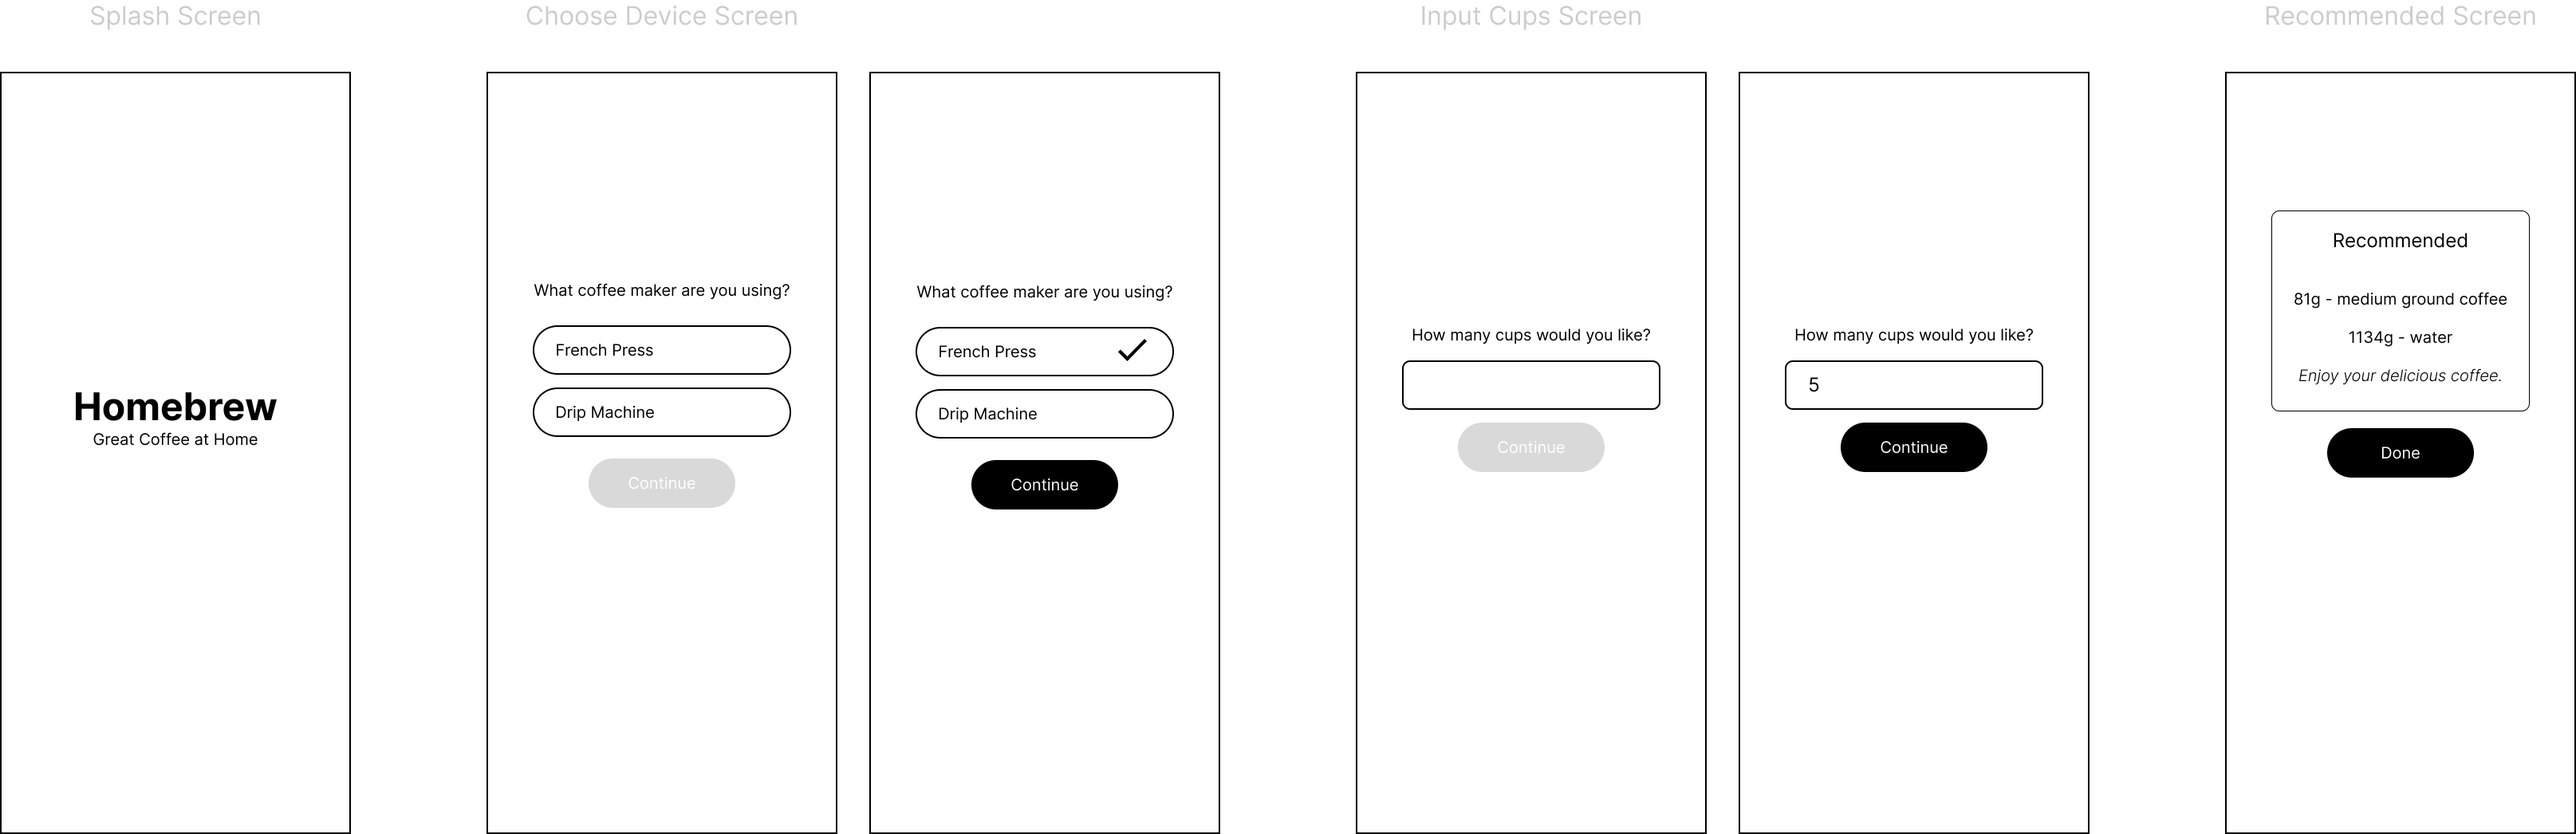
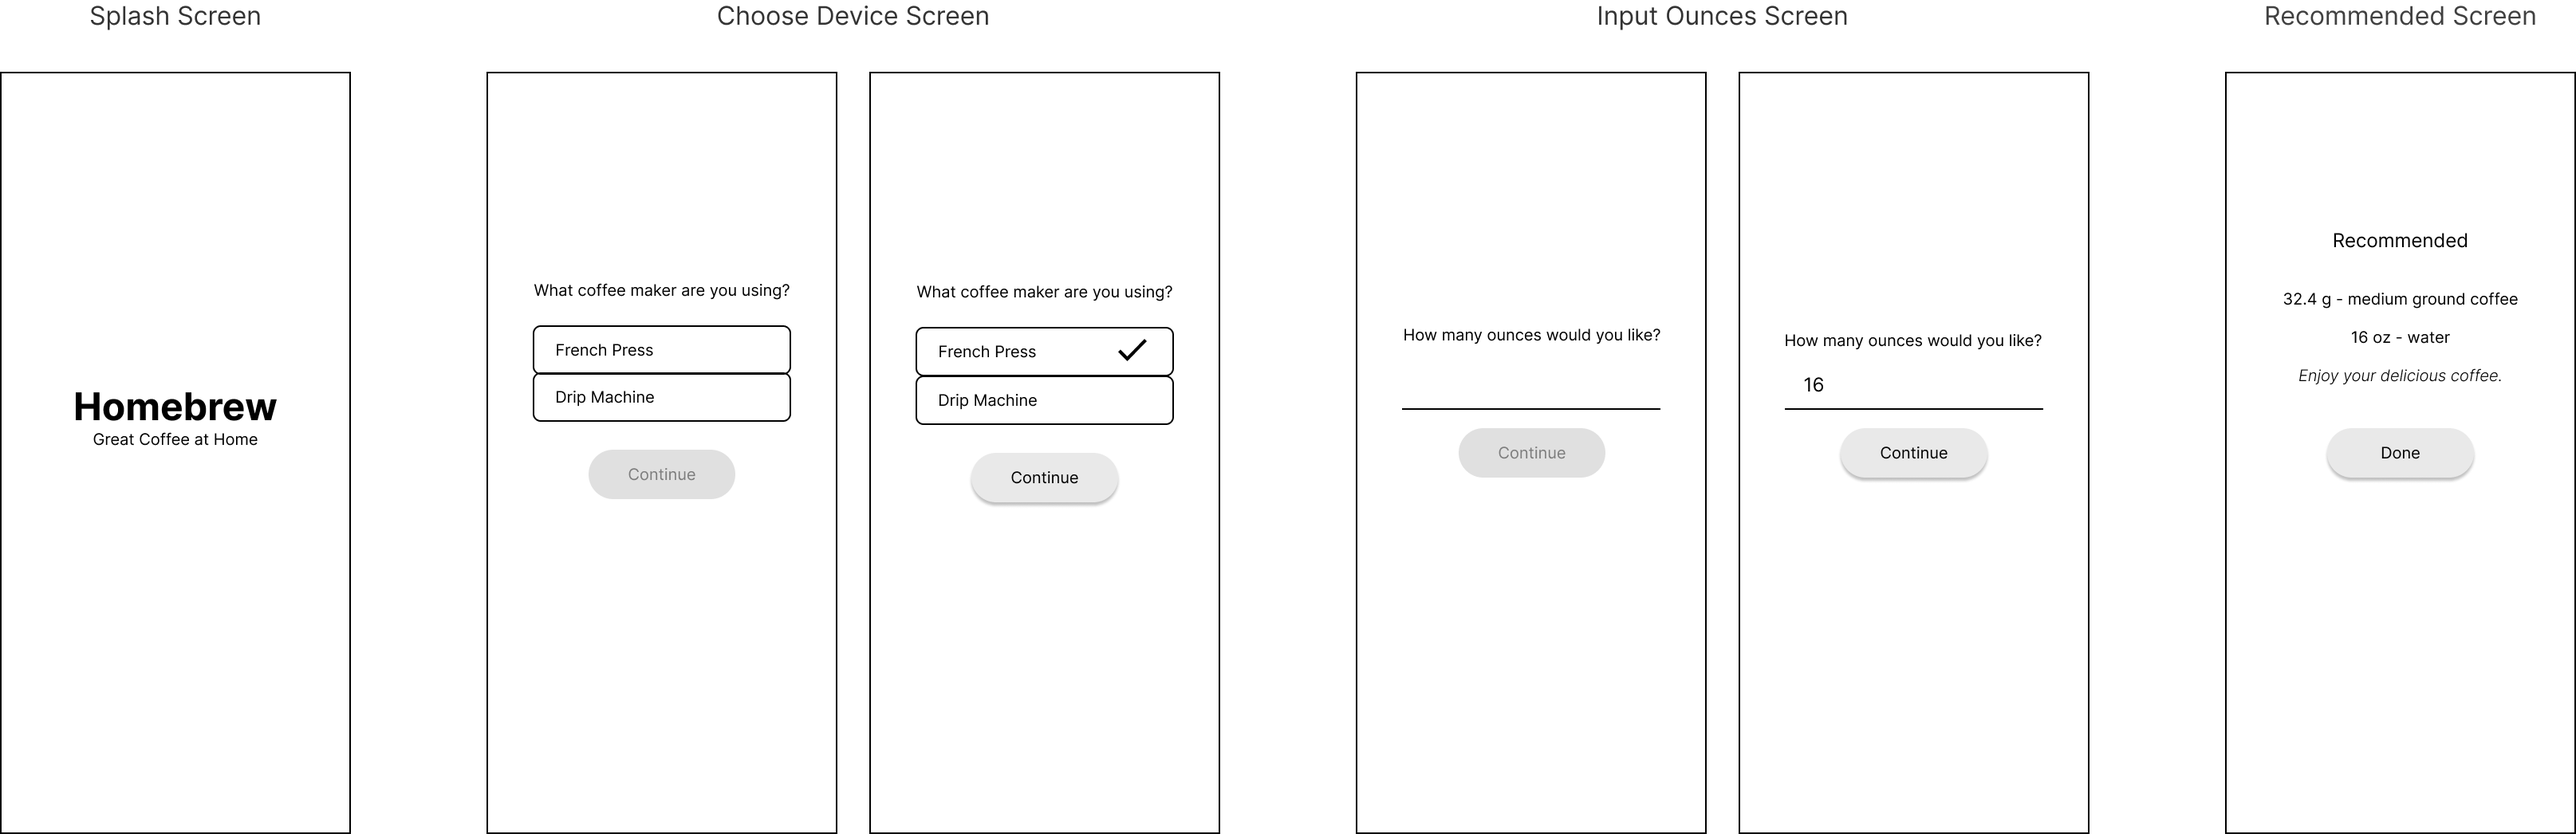
updated assignment

diff --git a/test/integration_tests.dart b/test/integration_tests.dart
@@ -8,126 +8,95 @@ void main() {
 
   group('Happy Paths', () {
     /*
-      Given I am on the Coffee Device Selection Screen
-      When I tap "French Press"
-      And I tap "Continue"
-      And I enter "5"
-      And I tap "Continue"
-      Then I should see "63g - course ground coffee"
-      And I should see "887g - water"
+      GIVEN I am on the Coffee Device Selection Screen, 
+      
+      WHEN I tap "French Press" AND I tap "Continue" 
+      AND I input "16" AND I tap "Continue", 
+      
+      THEN I should see "32.4 g - medium ground coffee" 
+      AND I should see "16 oz – water".
     */
-    testWidgets("should give recommendation for French Press",
+    testWidgets("Recommendation for French Press and 16 Oz of water.",
         (WidgetTester tester) async {
-      // your code here
+      
+      // Start the application
       await tester.pumpWidget(MyApp());
+      await tester.pumpAndSettle();
+
+      // Wait for Splash Screen to navigate to device screen (3 second timer)
+      await tester.pump(const Duration(seconds: 4));
+      await tester.pumpAndSettle();
+
+      // Now we should be on choose device screen
+      expect(find.text('What coffee maker are you using?'), findsOneWidget);
+
+      // Tap French Press
+      await tester.tap( find.byKey(Key('french-press')) );
+      await tester.pumpAndSettle();
+
+      // Tap Continue
+      await tester.tap( find.byKey(Key('continue')) );
+      await tester.pumpAndSettle();
+
+      // Now we should be on input oz screen
+      expect(find.text('How many ounces would you like?'), findsOneWidget);
+
+      // Input 16 Oz
+      await tester.enterText(find.byType(TextField), '16');
+      await tester.pumpAndSettle();
+
+      // Tap Continue
+      await tester.tap( find.byKey(Key('continue')) );
+      await tester.pumpAndSettle();
+
+      // Now we should be on recommend screen
+      expect(find.textContaining('Recommended'), findsOneWidget);
+
+      // Check for correct recommendations
+      expect(find.textContaining('32.4 - medium ground coffee'), findsOneWidget);
+      expect(find.textContaining('16 oz - water'), findsOneWidget);
+      
+    }, skip: true);
+
+    /*
+      GIVEN I am on the Coffee Device Selection Screen, 
+      
+      WHEN I tap "Drip Machine" AND I tap "Continue" 
+      AND I input "16" AND I tap "Continue", 
+      
+      THEN I should see "26.7 g - medium ground coffee" 
+      AND I should see "16 oz – water".
+    */
+    testWidgets("Recommendation for Drip Machine and 16 Oz of water.",
+        (WidgetTester tester) async {
+      // ADD YOUR CODE HERE
+
     });
 
     /*
-      Given I am on the Coffee Device Selection Screen
-      When I tap "Drip Machine"
-      And I tap "Continue"
-      And I enter "5"
-      And I tap "Continue"
-      Then I should see "52g - medium ground coffee"
-      And I should see "887g - water"
+      GIVEN I have already selected a coffee device and input a # of oz
+      AND I am on the Recommendation Screen, 
+      
+      WHEN I tap "Done", 
+      
+      THEN I should be taken back to the Coffee Device Selection Screen.
     */
-    testWidgets("should give recommendation for Drip Machine",
+      testWidgets("Going back to Choose Device Screen after clicking Done.",
         (WidgetTester tester) async {
-      //your code here
+      // ADD YOUR CODE HERE
+
     });
+
   });
 
   group('Sad Paths', () {
-    /*
-      Given I am on the Coffee Device Selection Screen
-      When I press "Continue"
-      Then I expect to still be on the Coffee Device Selection Screen
-    */
-    testWidgets(
-        "should not advance from Choose Device Screen without a selection",
-        (WidgetTester tester) async {
-      //your code here
-    });
 
-    /*
-      Given I chose "French Press" on the Coffee Device Selection Screen
-      And I advanced to the Choose Cups Screen
-      When I press "Continue"
-      Then I expect to still be on the Choose Cups Screen
-    */
-    testWidgets("should not advance from Choose Cups Screen without cups",
-        (WidgetTester tester) async {
-      //your code here
-    });
+    // ADD YOUR SAD PATH TESTS HERE.
 
-    /*
-      Given I chose "French Press" on the Coffee Device Selection Screen
-      And I advanced to the Choose Cups Screen
-      When I enter "-1"
-      And I press "Continue"
-      Then I expect to still be on the Choose Cups Screen
-    */
-    testWidgets(
-        "should not advance from Choose Cups Screen with negative cup amount",
-        (WidgetTester tester) async {
-      //your code here
-    });
 
-    /*
-      Given I chose "French Press" on the Coffee Device Selection Screen
-      And I advanced to the Choose Cups Screen
-      When I enter "a"
-      And I press "Continue"
-      Then I expect to still be on the Choose Cups Screen
-    */
-    testWidgets(
-        "should not advance from Choose Cups Screen with letter for cup amount",
-        (WidgetTester tester) async {
-      //your code here
-      //if you can restrict the keyboard to numbers only you can delete this test
-    });
 
-    /*
-      Given I chose "Drip Machine" on the Coffee Device Selection Screen
-      And I advanced to the Choose Cups Screen
-      When I press "Continue"
-      Then I expect to still be on the Choose Cups Screen
-    */
-    testWidgets("should not advance from Choose Cups Screen without cups",
-        (WidgetTester tester) async {
-      //your code here
-    });
 
-    /*
-      Given I chose "Drip Machine" on the Coffee Device Selection Screen
-      And I advanced to the Choose Cups Screen
-      When I enter "-1"
-      And I press "Continue"
-      Then I expect to still be on the Choose Cups Screen
-    */
-    testWidgets(
-        "should not advance from Choose Cups Screen with negative cup amount",
-        (WidgetTester tester) async {
-      //your code here
-    });
 
-    /*
-      Given I chose "Drip Machine" on the Coffee Device Selection Screen
-      And I advanced to the Choose Cups Screen
-      When I enter "a"
-      And I press "Continue"
-      Then I expect to still be on the Choose Cups Screen
-    */
-    testWidgets(
-        "should not advance from Choose Cups Screen with letter for cup amount",
-        (WidgetTester tester) async {
-      //your code here
-      //if you can restrict the keyboard to numbers only you can delete this test
-    });
   });
 
-  group('Back Button', () {
-    //make up your own tests to check that the back button works
-    //on every page
-  });
 }

diff --git a/test/unit_tests.dart b/test/unit_tests.dart
@@ -2,34 +2,42 @@ import 'package:flutter_test/flutter_test.dart';
 import 'package:homebrew/utils/coffee_tools.dart';
 
 void main() {
-  // This group will run several tests on our cups to ounces conversion.
-  group("cupsToOunces", () {
-    test('calculates ounces on 1 cup', () {
-      // Expect 8 oz from 1 cup.
+  // This group will run several tests for your ounces to grams conversion.
+  group("Ounces to Grams", () {
+
+    test('calculates grams for 1 ounce', () {
+      // Expect 28.35 g from 1 oz.
+
     });
 
-    test('calculates ounces on positive number of cups', () {
-      // Expect 40 oz from 5 cups.
+    test('calculates grams on positive number of ounces', () {
+      // Expect 453.6 g from 16 oz.
+
     });
 
     test('throws ArgumentError on zero', () {
       // Expect throwsArgumentError from passing 0.
+
     });
 
     test('throws ArgumentError on negative number', () {
       // Expect throwsArgumentError from passing -1.
+
     });
   });
 
-  // This group will run several tests on our cups to ounces conversion.
-  // Test for positive, negative, and 0 inputs.
-  group("ouncesToGrams", () {});
-
   // This group will run several tests on our French Press 1/14 ratio.
   // Test for positive inputs. (No need for negative or 0)
-  group("frenchPress", () {});
+  group("French Press Ratio", () {
+
+
+  });
 
   // This group will run several tests on our Drip Machine 1/17 ratio.
   // Test for positive inputs. (No need for negative or 0)
-  group("dripMachine", () {});
+  group("Drip Machine Ratio", () {
+
+
+  });
+
 }

diff --git a/lib/utils/coffee_tools.dart b/lib/utils/coffee_tools.dart
@@ -1,10 +1,19 @@
 class CoffeeTools {
-  // Input: number of cups (positive integer)
-  // Output: number of ounces in a cup
-  static int cupsToOunces(int cups) {
-    if (cups <= 0) {
+  
+  // Input: number of ounces (positive integer)
+  // Output: number of grams
+  static int ouncesToGrams(int oz) {
+    if (oz <= 0) {
       throw ArgumentError();
     }
-    return cups * 6;
+
+    return 0;
   }
+
+  // French Press Ratio
+
+
+  // Drip Machine Ratio
+
+
 }

diff --git a/lib/screens/splash_screen.dart b/lib/screens/splash_screen.dart
@@ -16,7 +16,7 @@ class _SplashScreenState extends State<SplashScreen> {
   }
 
   startTime() async {
-    var duration = const Duration(seconds: 2);
+    var duration = const Duration(seconds: 3);
     return Timer(duration, navigateToDeviceScreen);
   }
 

diff --git a/README.md b/README.md
@@ -1,15 +1,15 @@
 # Homebrew Project
 
-The purpose of this project is to practice Pair-Programming and utilizing Behaviour-Driven Development (BDD), Test-Driven Development (TDD) and Continuous Integration (CI).
+The purpose of this project is to practice Pair-Programming and utilize Behavior-Driven Design (BDD), Test-Driven Development (TDD) and Continuous Integration (CI).
 
 ### Before You Start
 
-Before you start writing any code, remember you will be graded based on your development process and **NOT** the finished outcome. Make sure to read through this README to have a good understanding of how to complete this project. To avoid losing any points, make sure you follow the rules below.
+Before you start writing any code, remember you will be graded based on your development process and **NOT** just the finished outcome. Make sure to read through this README to have a good understanding of how to complete this project. To avoid losing any points, make sure you follow the rules below.
 
 **Rules:**
 
 - Do **NOT** commit & push directly into the master/main branch.
-- Do **NOT** merge broken code into the master/main branch. (*You can still commit & push to your other branches*)
+- Do **NOT** merge failed tests into the master/main branch. (*You can still commit & push to your other branches*)
 - Do **NOT** merge into the master/main branch without a pull request.
 - Do **NOT** merge into the master/main branch without filling out your `pull_request_template.md` file.
 
@@ -17,22 +17,26 @@ Before you start writing any code, remember you will be graded based on your dev
 
 ## Design & Planning (Validation)
 
-This phase utilizes <span style="color: #0096FF">**Behaviour-Driven Development (BDD)**</span> to determine the application's behaviour and fucntionality from the customer's request. For this phase you do not need to add any material, simply read through it to understand the behaviour of this application.
+This phase utilizes <span style="color: #0096FF">**Behavior-Driven Design (BDD)**</span> to determine the application's behavior and fucntionality from the customer's request. For this phase you do not need to add any material, simply read through it to understand the behavior of this application.
 
 **Customer Request:**
 
-*"I would like an application for coffee aficionados that tells them how to prepare the best French Press or Drip Machine coffee possible. Through the app the users can choose which type of coffee machine they have and then input how much water will use. A French Press machine should have a 1/14 coffee-to-water ratio and Drip Machine a 1/17 coffee-to-water ratio. The result should be shown to them in grams."*
+*"I would like an application for coffee aficionados that tells them how to prepare the best French Press or Drip Machine coffee possible. Through the app the users can choose which type of coffee machine they have and then input how much water will use. A French Press machine should have a 1/14 coffee-to-water ratio and Drip Machine a 1/17 coffee-to-water ratio. The result should be shown to them in ounces and grams."*
 
 Upon hearing their request you draft the following user stories.
 
 ### User Stories
 
-- As a coffee-user, I should be able to choose the type of coffee device I have, so that I know the correct coffee-to-water ration for that specific device.
-- As a coffee-user, I should be able to input how much water in ounces I intend to use, so that I know how many grams of coffee I need for my device.
-- As a coffee-user, I should see my recommended coffee-to-water ratio, so that I can begin preparing my coffee.
-- As a coffee-user, I should be able to restart the process, so that I can input a select a new device or input a different water amount.
+- As a coffee-drinker, I should be able to choose between a French Press or Drip Machine coffee device, so that I know the correct coffee-to-water ratio for that specific device.
 
-Using the above user stories, you draft multiple validation sketches and finally the customer agrees to the sketch below.
+- As a coffee-drinker, I should be able to input how many ounces of water I intend to use, so that I know how many grams of coffee I need for my device.
+
+- As a coffee-drinker, I should see my recommended coffee-to-water ratio in grams and ounces, so that I can begin preparing my coffee.
+
+- As a coffee-drinker, I should be able to restart the process, so that I can select a new device or input a different water amount.
+
+
+Using the above user stories you draft multiple validation sketches and finally the customer agrees to the sketch below.
 
 ### Validation Sketch
 
@@ -62,17 +66,26 @@ From the prototypes in the validation phase above you create the following **Acc
 
 **Happy Paths:**
 
-- **GIVEN** I am on the Coffee Device Selection Screen, **WHEN** I tap "French Press" **AND** I tap "Continue" **AND** I enter "5" **AND** I tap "Continue", **THEN** I should see "63g - course ground coffee" **AND** I should see "887g - water".
+- **GIVEN** I am on the Coffee Device Selection Screen, **WHEN** I tap "French Press" **AND** I tap "Continue" **AND** I input "16" **AND** I tap "Continue", **THEN** I should see "32.4 g - medium ground coffee" **AND** I should see "16 oz - water".
 
-- **GIVEN** I am on the Coffee Device Selection Screen, **WHEN** I tap "Drip Machine" **AND** I tap "Continue" **AND** I enter "5" **AND** I tap "Continue", **THEN** I should see "52g - medium ground coffee" **AND** I should see "887g - water"
+
+- **GIVEN** I am on the Coffee Device Selection Screen, **WHEN** I tap "Drip Machine" **AND** I tap "Continue" **AND** I input "16" **AND** I tap "Continue", **THEN** I should see "26.7 g - medium ground coffee" **AND** I should see "16 oz - water"
+
+- **GIVEN** I have already selected a coffee device and input a # of oz **AND** I am on the Recommendation Screen, **WHEN** I tap "Done", **THEN** I should be taken back to the Coffee Device Selection Screen.
+
+</div>
+
 
 **Sad Paths:**
 
-- You will have to create your sad paths.
+- ADD YOUR SAD PATHS HERE.
+
+
+
+
+<br><br>
 
 ### Unit Tests
-
-After creating your acceptance criteria, you decide to write your unit tests. **Unit tests** are tests that test individual functions rather than user interaction. You also decide to place all your brewing calculation functions inside a single dart file rather than having many functions spread throughout multiple dart files.
 
 Write all your brew calculation functions inside the `CoffeeTools` class located in the `lib/utils/coffee_tools.dart` file.
 
@@ -112,11 +125,9 @@ flutter test test/integration_tests.dart
 
 ## Code Implementation
 
-Now its time for you to start writing code!
-
 Use <span style="color: #0096FF">**Continuous Integration (CI)**</span> when updating your GitHub repository. CI is one of the 2 phases of **DevOps** and it focuses on updating your source code in a way that almost 100% prevents Regression.
 
-<img src="screenshots/devops.PNG" width="350px">
+<img src="screenshots/devops.png" width="350px">
 
 The first step of CI is to setup your **Configuration-as-Code (CaC)**, this step is where you configure your code repository to enforce the CI pipeline.
 
@@ -135,8 +146,7 @@ This has **NOT** ben setup for you.
 You can create a new branch and update your GitHub repo all from your terminal. Simply create a new branch, the swith over to it, and lastly push to GitHub. You can use the commands below.
 
 ```console
-git branch new_branch
-git checkout new_branch
+git checkout -b new_branch
 git push -u origin new_branch
 ```
 
